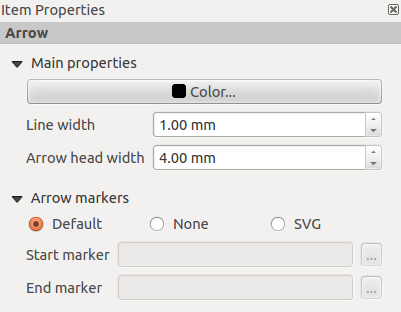
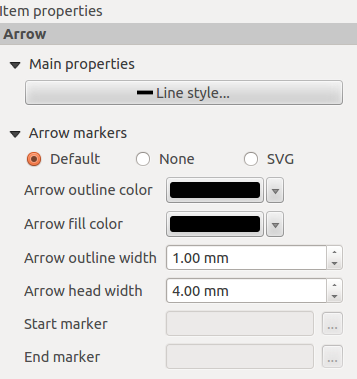
Updated shapes and arrow composer items including screenshots

Changed region(s): [[0.0, 0.0, 1.0, 0.9519], [0.3081, 0.9519, 0.8936, 0.9808]]

diff --git a/source/docs/user_manual/print_composer/print_composer.rst b/source/docs/user_manual/print_composer/print_composer.rst
@@ -317,8 +317,8 @@ Rendering mode
 Composer Items
 ==============
 
-Adding a current |qg| map canvas to the Print Composer
-------------------------------------------------------
+The Map item
+------------
 
 Click on the |mActionAddMap| :sup:`Add new map` toolbar button in the Print
 Composer toolbar to add the |qg| map canvas. Now, drag a rectangle onto the Composer
@@ -549,8 +549,8 @@ When you select the overview item in the list you can customize it.
 
 
 
-Adding a Label item to the Print Composer
------------------------------------------
+The Label item
+--------------
 
 To add a label, click the |mActionLabel| :sup:`Add label` icon, place the element
 with the left mouse button on the Print Composer canvas and position and customize
@@ -590,8 +590,11 @@ Alignment and Display
 * You can define the horizontal and vertical alignment in the :guilabel:`Alignment` zone.
 * In the **Display** tag, you can define a margin in mm. This is the margin from the edge of the composer item.
 
-Adding an Image item to the Print Composer
-------------------------------------------
+
+.. _the_image_item:
+
+The Image item
+--------------
 
 To add an image, click the |mActionAddImage| :sup:`Add image` icon, place the element
 with the left mouse button on the Print Composer canvas and position and customize
@@ -677,8 +680,8 @@ you can now select one of the north arrow from the list as displayed in figure_c
 .. index::
    single:Map_Legend
 
-Adding a Legend item to the Print Composer
-------------------------------------------
+The Legend item
+---------------
 
 To add a map legend, click the |mActionAddLegend| :sup:`Add new legend` icon,
 place the element with the left mouse button on the Print Composer canvas and
@@ -826,8 +829,9 @@ through this dialog.
 .. index::
    single: Scalebar; Map_Scalebar
 
-Adding a Scale Bar item to the Print Composer
-----------------------------------------------
+
+The Scale Bar item
+------------------
 
 To add a scale bar, click the |mActionScaleBar| :sup:`Add new scalebar` icon, place
 the element with the left mouse button on the Print Composer canvas and position
@@ -890,7 +894,7 @@ provide the following functionalities (see figure_composer_scalebar3_):
 
 In these two dialogs, you can set how the scale bar will be represented.
 
-* Select the map units used. There are three possible choices: **Map Units** is the automated unit
+* Select the map units used. There are four possible choices: **Map Units** is the automated unit
   selection; **Meters**, **Feet** or **Nautical Miles** force unit conversions.
 * The :guilabel:`Label` field defines the text used to describe the units of the scale bar.
 * The :guilabel:`Map units per bar unit` allows you to fix the ratio between a map unit and its representation in the scale bar.
@@ -915,15 +919,15 @@ The :guilabel:`Display` dialog of the scale bar :guilabel:`Item Properties` tab 
 
 You can define how the scale bar will be displayed in its frame. 
 
-* :guilabel:`Box margin`: space between text and frame borders
-* :guilabel:`Labels margin`:  space between text and scale bar drawing
-* :guilabel:`Line width`: line widht of the scale bar drawing
-* :guilabel:`Join style`: Corners at the end of scalebar in style Bevel, Rounded or Square 
+* :guilabel:`Box margin` : space between text and frame borders
+* :guilabel:`Labels margin` :  space between text and scale bar drawing
+* :guilabel:`Line width` : line widht of the scale bar drawing
+* :guilabel:`Join style` : Corners at the end of scalebar in style Bevel, Rounded or Square 
   (only available for Scale bar style Single Box & Double Box)  
-* :guilabel:`Cap style`: End of all lines in style Square, Round or Flat
+* :guilabel:`Cap style` : End of all lines in style Square, Round or Flat
   (only available for Scale bar style Line Ticks Up, Down and Middle)  
-* :guilabel:`Alignment`: Puts text on the left, middle or right side of the frame
-  Works only for Scale bar style Numeric 
+* :guilabel:`Alignment` : Puts text on the left, middle or right side of the frame
+  (works only for Scale bar style Numeric) 
 
 Fonts and colors
 ^^^^^^^^^^^^^^^^
@@ -956,18 +960,15 @@ a simple color selection option or the more advanced color selection option, tha
 started when you click in the colored box in the dialog. 
 
 
-Adding a Basic shape or Arrow item to the Print Composer
---------------------------------------------------------
+The Basic Shape Items
+---------------------
 
-It is possible to add basic shapes (ellipse, rectangle, triangle) and arrows
-to the Print Composer canvas: Click the |mActionAddBasicShape| :sup:`Add basic shape` icon or the
-|mActionAddArrow| :sup:`Add Arrow` icon, place the element with the left mouse button on the Print Composer canvas and position
-and customize the appearance in the :guilabel:`Item Properties` tab.
+To add a basic shape (ellipse, rectangle, triangle), click the |mActionAddBasicShape| :sup:`Add basic shape` icon 
+or the |mActionAddArrow| :sup:`Add Arrow` icon, place the element holding down the left mouse. Customize the 
+appearance in the :guilabel:`Item Properties` tab. 
 
-The :guilabel:`Shape` item properties tab allows you to draw an ellipse, rectangle, or triangle
-in the Print Composer canvas. You can define its outline and fill color, the
-outline width and a clockwise rotation. For the rectangle shape, you can change the value 
-of the corner radius.
+When you also hold down the :kbd:`Shift` key while placing the basic shape you can create a perfect square, 
+circle or triangle. 
 
 .. _figure_composer_22:
 
@@ -980,39 +981,78 @@ of the corner radius.
 
    Shape Item properties Tab |nix|
 
-The :guilabel:`Arrow` item properties tab allows you to draw an arrow in the Print Composer canvas.
-You can define color, outline and arrow width, and it is possible to use a default
-marker, no marker, or an SVG marker. For the SVG marker, you can additionally
-add an SVG start and end marker from a directory on your computer.
+The :guilabel:`Shape` item properties tab allows you to select if you want to draw an ellipse, 
+rectangle or triangle inside the given frame. 
 
-.. _figure_composer_23:
+You can set the style of the shape using the advanced symbol style dialog with which you can 
+define its outline and fill color, fill pattern, use markers etcetera.
+
+For the rectangle shape, you can set the value of the corner radius to round of the corners.
+
+.. note::
+   Unlike other items, you can not style the frame or the background color of the frame.
+
+
+The Arrow item
+--------------
+
+To add an arrow, click the |mActionAddArrow| :sup:`Add Arrow` icon, place the element holding 
+down the left mouse button and drag a line to draw the arrow on the Print Composer canvas and 
+position and customize the appearance in the scale bar :guilabel:`Item Properties` tab.
+
+When you also hold down the :kbd:`Shift` key while placing the arrow, it is placed in an angle 
+of exactly 45\ |degrees| .
+
+The arrow item can be used to add a line or a simple arrow that can be used, for example, to 
+show the relation between other print composer items. To create a north arrow, the image item should 
+be considered first. |qg| has a set of North arrows in SVG format. Furthermore you can connect 
+an image item with a map so it can rotate automatically with the map (see the_image_item_).
+
+.. _figure_composer_arrow:
 
 .. only:: html
 
-   **Figure Composer 23:**
+   **Figure Composer Arrow:**
 
 .. figure:: /static/user_manual/print_composer/print_composer_arrow.png
    :align: center
 
    Arrow Item properties Tab |nix|
 
-Main properties
+Item Properties
 ^^^^^^^^^^^^^^^
 
-* For basic shapes, this dialog allows you to choose an **Ellipse**, **Rectangle** or **Triangle** shape and its rotation.
-* Unlike the other items, line style, line color and background color of a basic shape are adjusted with the Frame and Background dialog.
-  No frame is drawn.
-* For arrows, you can define here the line style: :guilabel:`Color`, :guilabel:`Line width` and :guilabel:`Arrow head width`.
-* :guilabel:`Arrows markers` can be adjusted. If you want to set an SVG :guilabel:`Start marker` and/or :guilabel:`End marker`, browse to
-  your SVG file by clicking on the **[...]** button after selecting the :guilabel:`SVG` radio button.
+The :guilabel:`Arrow` item properties tab allows you to configure an arrow item.
 
-.. note::
-   Unlike other items, the background color for a basic shape is the shape background and not the frame background.
+The  **[Line style ...]** button can be used to set the line style using the line style symbol editor.
+
+In :guilabel:`Arrows markers` you can select one of three radio buttons.
+ 
+* :guilabel:`Default` : To draw a regular arrow, gives you options to style the arrow head 
+* :guilabel:`None` : To draw a line without arrow head
+* :guilabel:`SVG Marker` : To draw a line with an SVG :guilabel:`Start marker` and/or :guilabel:`End marker`
+
+For :guilabel:`Default` Arrow marker you can use following options to style the arrow head.
+
+* :guilabel:`Arrow outline color` : Set the outline color of the arrow head
+* :guilabel:`Arrow fill color` : Set the fill color of the arrow head
+* :guilabel:`Arrow outline width` : Set the outline width of the arrow head
+* :guilabel:`Arrow head width`: Set the size of the arrow head
+  
+For :guilabel:`SVG Marker` you can use following options. 
+
+* :guilabel:`Start marker` : Choose an SVG image to draw at the beginning of the line
+* :guilabel:`End marker` : Choose an SVG image to draw at the end of the line
+* :guilabel:`Arrow head width`: Sets the size of Start and/or headmarker
+
+SVG images are automatically rotated with the line. The color of the SVG image can not be changed.
+
 
 .. index:: Attribute_Table
 
-Add attribute table values to the Print Composer
-------------------------------------------------
+
+The Attribute Table item
+------------------------
 
 It is possible to add parts of a vector attribute table to the Print Composer
 canvas: Click the |mActionOpenTable| :sup:`Add attribute table` icon, place the element with the left mouse button on the Print Composer
@@ -1070,8 +1110,8 @@ provide the following functionalities (see figure_composer_25_):
 
 .. index:: HTML_Frame
 
-Add an HTML frame to the Print Composer
-----------------------------------------
+The HTML frame item
+-------------------
 
 It is possible to add a clickable frame linked to a URL: Click the |mActionAddHtml| :sup:`Add HTML frame` icon, place the element with
 the left mouse button on the Print Composer canvas and position and customize the appearance in the :guilabel:`Item Properties` tab.
